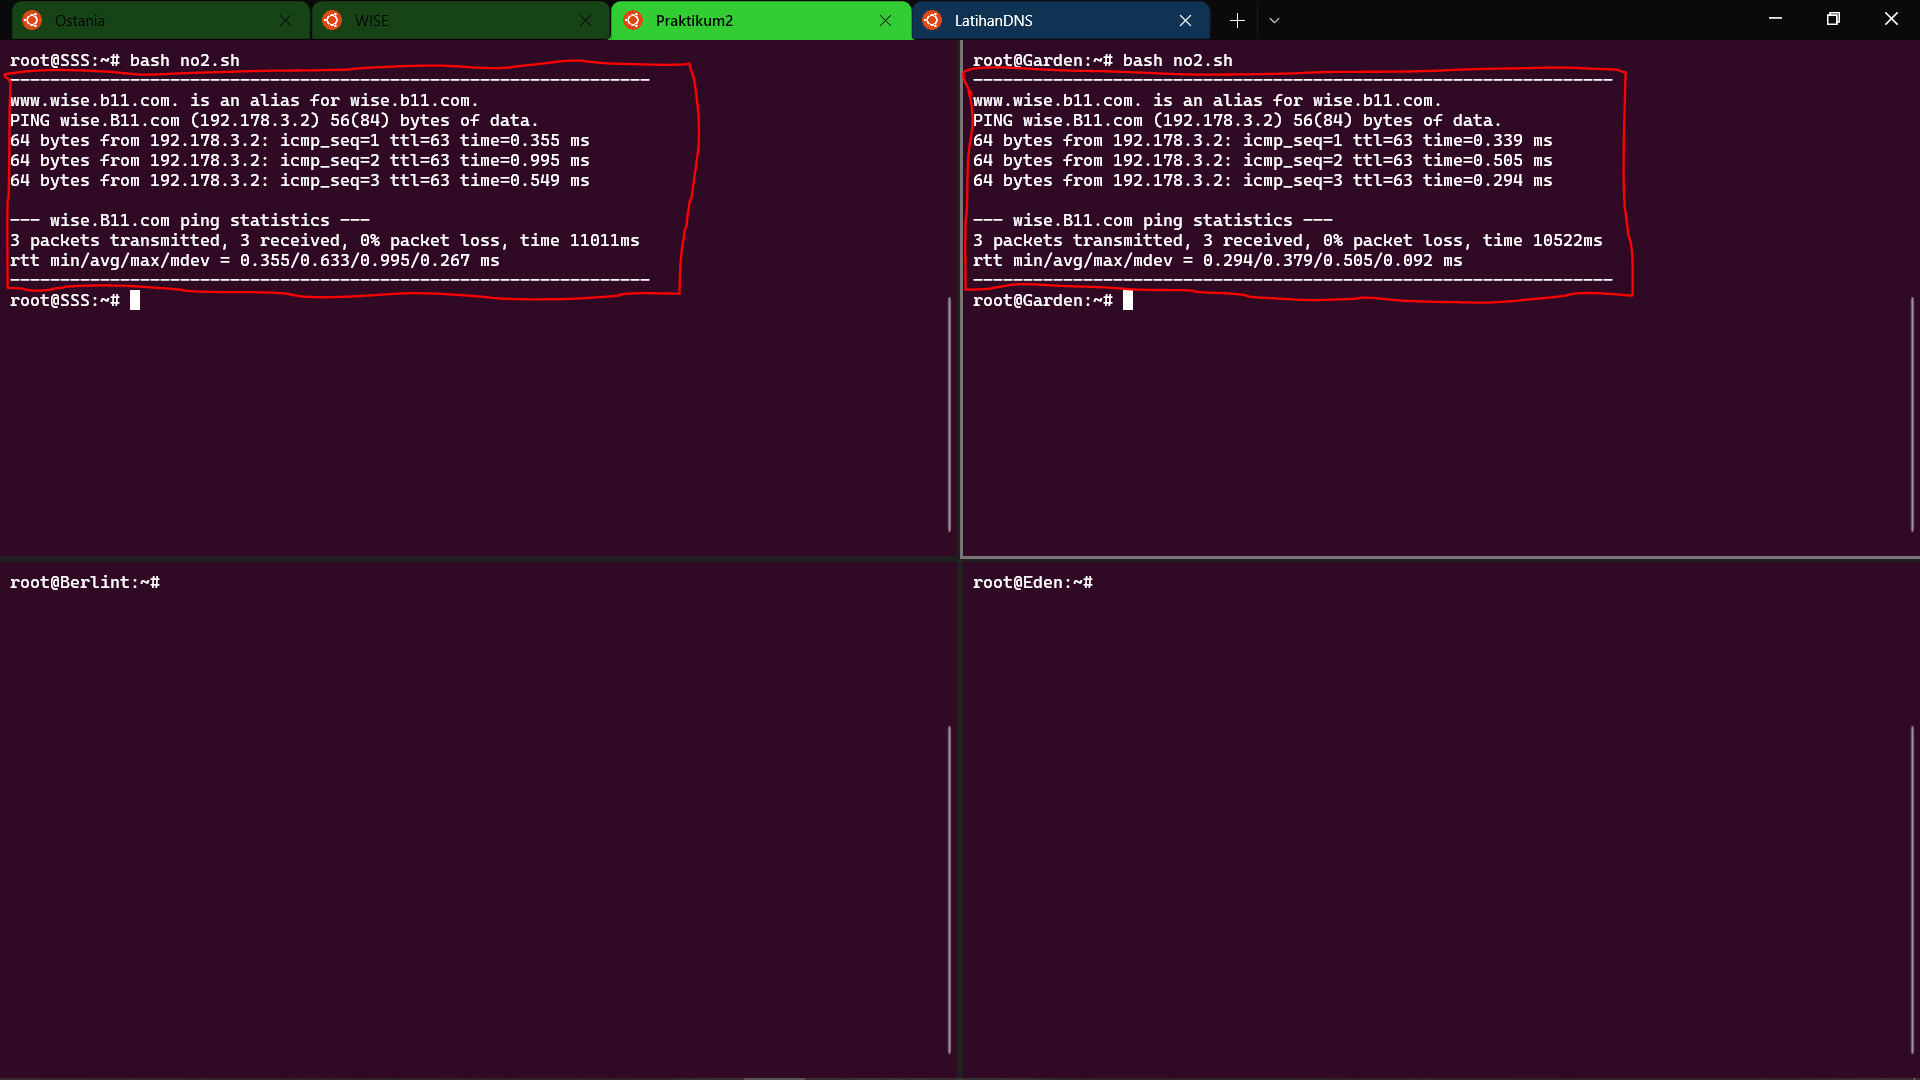
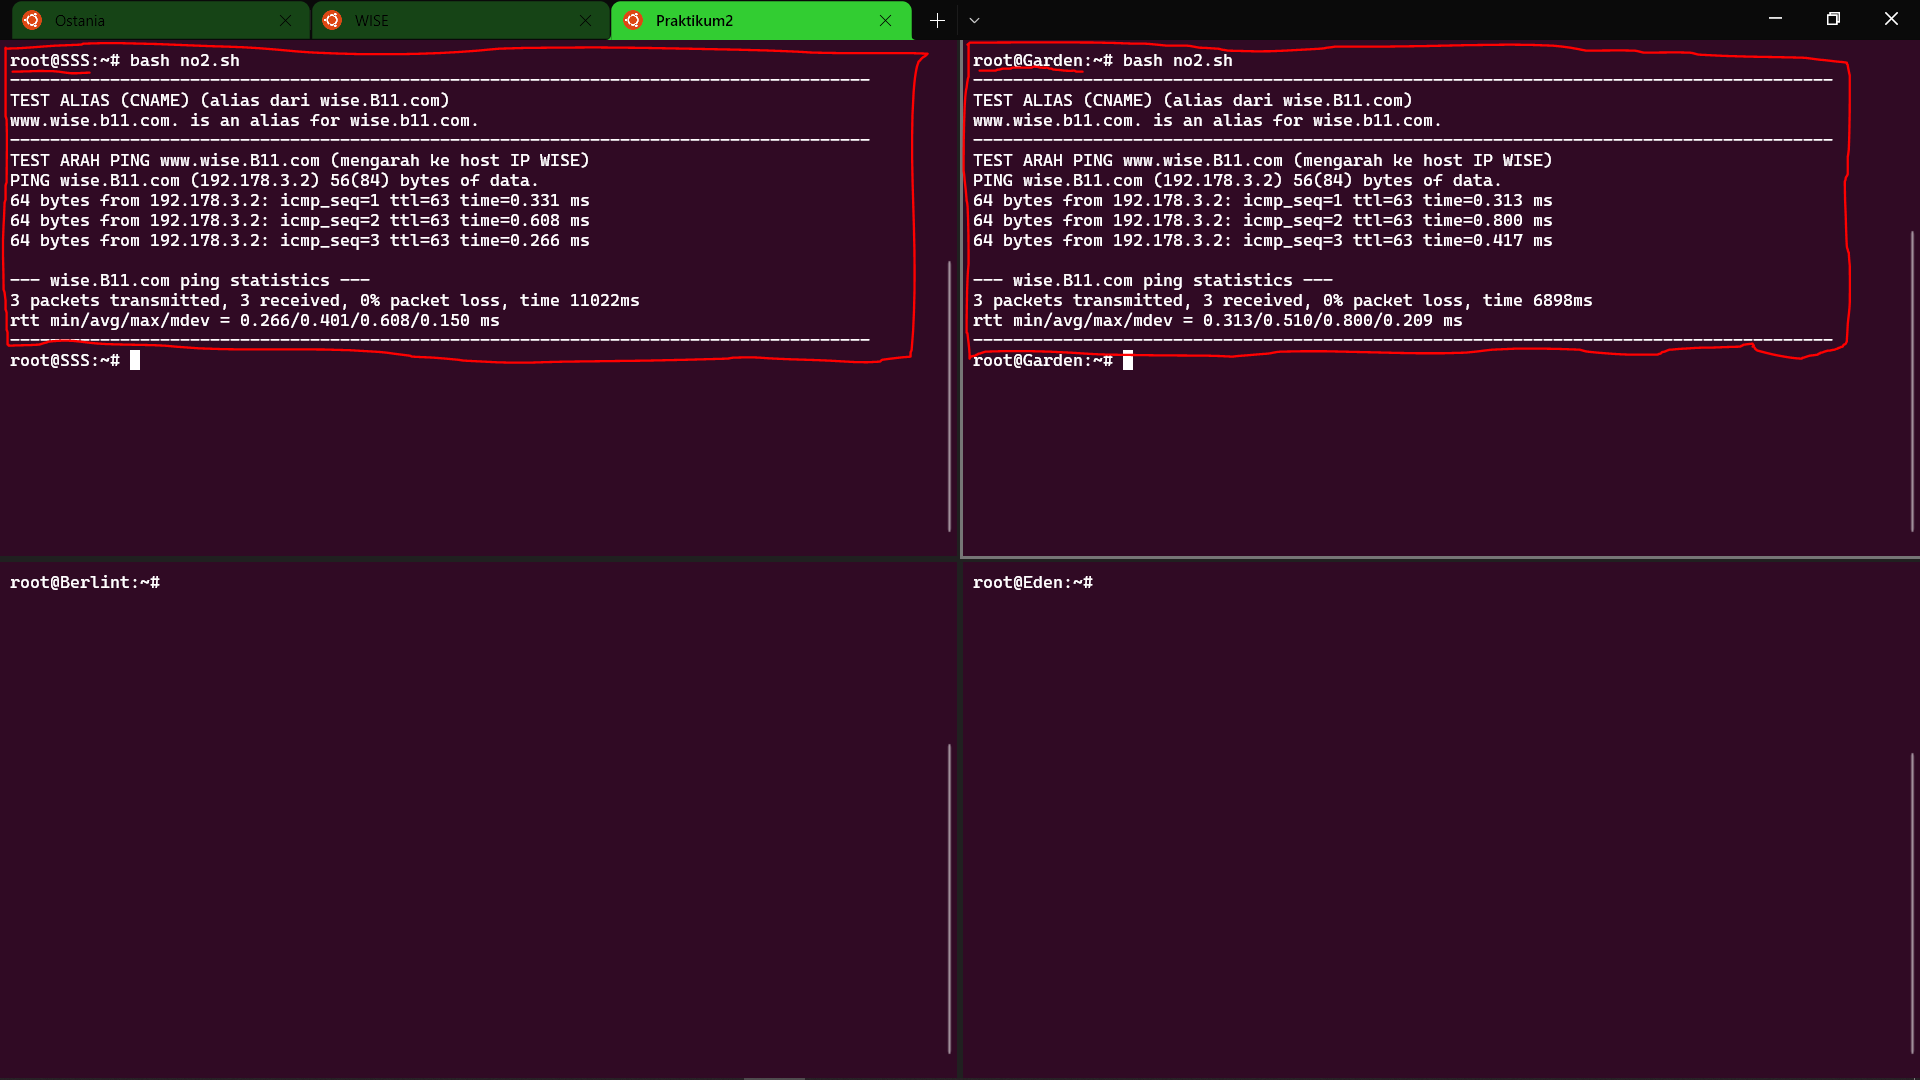
selesai soal no 2

diff --git a/README.md b/README.md
@@ -28,13 +28,13 @@
 16. [Soal 16](#Question-16)
 17. [Soal 17](#Question-17)
 
-
 ## Topografi
+
 ![image](https://raw.githubusercontent.com/Chroax/Jarkom-Modul-2-B11-2022/main/image/topografi.PNG)
 
-
 ## Konfigurasi
-- Ostania
+
+- **Ostania**
     
     ```
     auto eth0
@@ -56,7 +56,7 @@
     	netmask 255.255.255.0
     ```
 
-- SSS
+- **SSS**
     
     ```
     auto eth0
@@ -66,7 +66,7 @@
     	gateway 192.178.1.1
     ```
 
-- Garden
+- **Garden**
     
     ```
     auto eth0
@@ -76,7 +76,7 @@
     	gateway 192.178.1.1
     ```
 
-- WISE
+- **WISE**
     
     ```
     auto eth0
@@ -86,7 +86,7 @@
     	gateway 192.178.3.1
     ```
 
-- Berlint
+- **Berlint**
     
     ```
     auto eth0
@@ -96,7 +96,7 @@
     	gateway 192.178.2.1
     ```
 
-- Eden
+- **Eden**
     
     ```
     auto eth0
@@ -106,10 +106,11 @@
     	gateway 192.178.2.1
     ```
 
-    
 ## Initial Script
+
 Pada initial project, kami mengubah `root/.bashrc` masing-masing node sehingga saat dijalankan akan langsung melakukan command berikut ini
-- Ostania
+
+- **Ostania**
     
     ```
     # ~/.bashrc: executed by bash(1) for non-login shells.
@@ -121,7 +122,7 @@ Pada initial project, kami mengubah `root/.bashrc` masing-masing node sehingga s
     iptables -t nat -A POSTROUTING -o eth0 -j MASQUERADE -s 192.178.0.0/16
     ```
 
-- Eden
+- **Eden**
     
     ```
     # ~/.bashrc: executed by bash(1) for non-login shells.
@@ -152,7 +153,7 @@ Pada initial project, kami mengubah `root/.bashrc` masing-masing node sehingga s
     cd ~
     ```
 
-- Lainnya
+- **Lainnya**
     
     ```
     # ~/.bashrc: executed by bash(1) for non-login shells.
@@ -173,18 +174,25 @@ Pada initial project, kami mengubah `root/.bashrc` masing-masing node sehingga s
     ```
 
 ## Question 1
+
 > WISE akan dijadikan sebagai DNS Master, Berlint akan dijadikan DNS Slave, dan Eden akan digunakan sebagai Web Server. Terdapat 2 Client yaitu SSS, dan Garden. Semua node terhubung pada router Ostania, sehingga dapat mengakses internet
+
 ### Script
-Setelah berhasil melakukan konfigurasi dan selesai menjalankan start command, kita akan melakukan pengecekan internet untuk semua node dengan melakukan ping terhadap `google.com`
-- Semua Node
-    
+
+Setelah berhasil melakukan konfigurasi dan selesai menjalankan start command, kita akan melakukan pengecekan internet untuk semua node dengan melakukan ping terhadap `google.com`.
+
+> Script dibawah ini terdapat pada **root semua node**, untuk menjalankannya bisa langsung dengan melakukan command `bash no1.sh`
+
+- **Semua Node** 
     ```
     echo -e "--------------------------------------------------------------------------------------"
     echo " TES AKSES INTERNET:"
     ping google.com -c 3
     echo -e "--------------------------------------------------------------------------------------"
     ```
+
 ### Test
+
 ![image](https://raw.githubusercontent.com/Chroax/Jarkom-Modul-2-B11-2022/main/image/Soal1/Capture1.PNG)
 
 ![image](https://raw.githubusercontent.com/Chroax/Jarkom-Modul-2-B11-2022/main/image/Soal1/Capture2.PNG)
@@ -193,18 +201,70 @@ Setelah berhasil melakukan konfigurasi dan selesai menjalankan start command, ki
 
 
 ## Question 2
+
 > Untuk mempermudah mendapatkan informasi mengenai misi dari Handler, bantulah Loid membuat website utama dengan akses wise.yyy.com dengan alias www.wise.yyy.com pada folder wise
+
 ### Script
+
+Pertama-tama pada node WISE (Master), kita harus konfigurasikan `/etc/bind/named.conf.local` dengan domain wise.B11.com. Setelah itu buatlah direktori `/etc/bind/wise`. Kemudian buatlah file `wise.B11.com` pada direktori yang baru saja dibuat dan isilah file sesuai dengan contoh dibawah ini (setelah command `mkdir /etc/bind/wise`).
+
+> Script dibawah ini terdapat pada **root node WISE**, untuk menjalankannya bisa langsung dengan melakukan command `bash no2.sh`
+
 - WISE
-    
     ```
+    echo -e '
+    zone "wise.B11.com" {
+            type master;
+            file "/etc/bind/wise/wise.B11.com";
+    };
+     ' > /etc/bind/named.conf.local
+
+    mkdir /etc/bind/wise
+
+    echo -e '
+    ;
+    ; BIND data file for local loopback interface
+    ;
+    $TTL    604800
+    @       IN      SOA     wise.B11.com. root.wise.B11.com. (
+                                  2         ; Serial
+                             604800         ; Refresh
+                              86400         ; Retry
+                            2419200         ; Expire
+                             604800 )       ; Negative Cache TTL
+    ;
+    @       IN      NS      wise.B11.com.
+    @       IN      A       192.178.3.2     ; IP WISE
+    www     IN      CNAME   wise.B11.com.
+    @       IN      AAAA    ::1
+    ' > /etc/bind/wise/wise.B11.com
+
+    service bind9 restart
     ```
+
+Kemudian pada node client (SSS & Garden), kita harus lakukan setting nameserver yang ada. Kemudian kita akan mengecek dengan melakukan `host -t CNAME www.wise.B11.com` dan `www.wise.B11.com -c 3`.
+
+> Script dibawah ini terdapat pada **root node SSS & Garden**, untuk menjalankannya bisa langsung dengan melakukan command `bash no2.sh`
 
 - SSS & Garden
     
     ```
-    ```    
+    echo -e '
+    nameserver 192.178.3.2          ; IP WISE
+    nameserver 192.168.122.1
+    ' > /etc/resolv.conf
+
+    echo -e "--------------------------------------------------------------------------------------"
+    host -t CNAME www.wise.B11.com
+    echo "TEST ALIAS (CNAME) (alias dari wise.B11.com)"
+    echo -e "--------------------------------------------------------------------------------------"
+    echo "TEST ARAH PING www.wise.B11.com (mengarah ke host IP WISE)"
+    ping www.wise.B11.com -c 3
+    echo -e "--------------------------------------------------------------------------------------"
+    ```
+
 ### Test
+
 ![image](https://raw.githubusercontent.com/Chroax/Jarkom-Modul-2-B11-2022/main/image/Soal2/Capture1.PNG)
 
 
